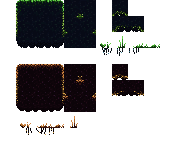
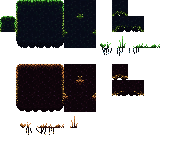
added a lot

Changed region(s): [[0.0, 0.1111, 0.1136, 0.2222], [0.0852, 0.0, 0.1989, 0.1111]]

diff --git a/src/main.cpp b/src/main.cpp
@@ -7,6 +7,7 @@
 #include <math.h>
 #include <functional>
 
+#include "SFML/Graphics/Color.hpp"
 #include "SFML/Graphics/Shader.hpp"
 #include "SFML/System/Vector2.hpp"
 #include "SFML/Window/Keyboard.hpp"
@@ -29,6 +30,7 @@ sf::Vector2u mapSize = {500,500};
 
 int lvlCtr = 1;
 bool outOfLevels = false;
+bool doneWL = false;
 
 sf::Mouse mouse;
 sf::Keyboard keyboard;
@@ -40,6 +42,7 @@ std::vector<Button> buttons;
 std::vector<Creature> creatures;
 TileMap map;
 Player player(25.f,sf::Vector2f(75,50));
+End end;
 
 float sound = 0;
 
@@ -85,6 +88,11 @@ int main()
 	sf::Text test("", font, 30);
 
 	sf::View cam({ 200,200 }, { 1000,1000 });
+
+	//end.shape.setPosition(sf::Vector2f(400, 800));
+	end.shape.setTexture(door);
+	end.shape.setOrigin(end.shape.getLocalBounds().width/2,end.shape.getLocalBounds().height/2);
+	end.shape.setScale(sf::Vector2f(5,5));
 
 	loadLevel();
 
@@ -163,9 +171,9 @@ int main()
 			}
 		}
 
-		if (keyboard.isKeyPressed(sf::Keyboard::Key::Space) && player.onfloor && jumpCooldown <= 0)
+		if ((keyboard.isKeyPressed(sf::Keyboard::Key::Space) || keyboard.isKeyPressed(sf::Keyboard::Key::W))&& player.onfloor && jumpCooldown <= 0)
 		{
-			jumpCooldown = .25;
+			jumpCooldown = 1;
 			player.velocity.y -= 9.98*1.4;
 		}
 
@@ -187,6 +195,7 @@ int main()
 
 		map.draw(window, dirt);
 
+
 		for (auto& polygon : polygons)
 		{
 			polygon.draw(window);
@@ -204,6 +213,9 @@ int main()
 		for (auto& wall : walls) {
 			wall.closestPoint(player, dt);
 		}
+		
+		end.update(dt);
+		end.draw(window);
 
 		for (auto& point : points)
 		{
@@ -222,21 +234,16 @@ int main()
 			touchedGround = true;
 		}
 
-		/*
-		if (lemmingsRemaining <= 1 && lemmingsNum <= 1 && !outOfLevels)
+		
+		if (doneWL && !outOfLevels)
 		{
-			if (end.num >= .75 * lemmingsNumOg)
-			{
-				std::cout << "You win\n";
-				lvlCtr++;
-			}
-			else
-			{
-				std::cout << "You Loose\n";
-			}
+			std::cout << "You win\n";
+			lvlCtr++;
+			doneWL = false;
+		
 			loadLevel();
 		}
-		*/
+		
 
 		sound = dist({ 0,0 }, player.velocity) * 30 + 2*PPM;
 
@@ -247,10 +254,12 @@ int main()
 		window.draw(soundCircle);
 #endif
 
-
-		test.setString("Has Dash: " + std::to_string(touchedGround));
-		test.setPosition(cam.getInverseTransform().transformPoint(0,0));
-		window.draw(test);
+		if(doneWL)
+		{
+			test.setString("Ur done bro 💀");
+			test.setPosition(cam.getInverseTransform().transformPoint(0,0));
+			window.draw(test);
+		}
 
 		sf::Vector2f playPos = player.shape.getPosition() + sf::Vector2f(1, 1) * r;
 		sf::Vector2f camPos = { 0, 0 };
@@ -354,6 +363,13 @@ int loadLevel()
 
 	int* mapT = new int[300*300];
 
+	for (unsigned int i = 0; i < 300; ++i) {
+		for (unsigned int j = 0; j < 300; ++j) {
+			map.map[i+j*300] = 0;
+		}
+	}
+
+	map.recalculate();
 
 	for (unsigned int i = 0; i < 300; ++i) {
 		for (unsigned int j = 0; j < 300; ++j) {
@@ -377,9 +393,11 @@ int loadLevel()
 
 	map = TileMap(mapT);
 	
-	map.recalculate();
 
 	delete[] mapT;
+
+
+	map.recalculate();
 
 	std::ifstream file;
 	file.open("resources/" + std::to_string(lvlCtr) + "/lvl.txt");
@@ -401,6 +419,10 @@ int loadLevel()
 			{
 				walls.emplace_back(sf::Vector2f(std::stoi(tokens[1]), std::stoi(tokens[2])), sf::Vector2f(std::stoi(tokens[3]), std::stoi(tokens[4])));
 			}
+			else if (command == "s")
+			{
+				player.shape.setPosition(sf::Vector2f(std::stoi(tokens[1]),std::stoi(tokens[2])));
+			}
 			else if (command == "p")
 			{
 				std::vector<sf::Vector2f> verticies;
@@ -412,10 +434,6 @@ int loadLevel()
 				polygons.emplace_back(verticies);
 				verticies.clear();
 			}
-			else if (command == "e")
-			{
-				creatures.emplace_back(25, sf::Vector2f(std::stoi(tokens[1]), std::stoi(tokens[1])));
-			}
 			else if (command == "c")
 			{
 				if (tokens[1] == "t")
@@ -426,6 +444,10 @@ int loadLevel()
 				{
 					confineCam = false;
 				}
+			}
+			else if (command == "e")
+			{
+				end.shape.setPosition(sf::Vector2f(0,.5)*PPM + sf::Vector2f(std::stoi(tokens[1])*PPM, std::stoi(tokens[2])*PPM));
 			}
 			else if (command == " " || command == "")
 			{ }
@@ -754,12 +776,9 @@ void TileMap::recalculate() {
 			triangles[4].position = sf::Vector2f((i + 1) * tileSize.x, j * tileSize.y);
 			triangles[5].position = sf::Vector2f((i + 1) * tileSize.x, (j + 1) * tileSize.y);
 
-			triangles[0].texCoords = sf::Vector2f( map[i + j * width] * TSS,map[i + j * width] * TSS );
-			triangles[1].texCoords = sf::Vector2f( (map[i + j * width] + 1) * TSS,map[i + j * width] * TSS );
-			triangles[2].texCoords = sf::Vector2f((map[i + j * width]) * TSS,(map[i + j * width] + 1) * TSS );
-			triangles[3].texCoords = sf::Vector2f((map[i + j * width]) * TSS,(map[i + j * width] + 1) * TSS );
-			triangles[4].texCoords = sf::Vector2f((map[i + j * width] + 1) * TSS,(map[i + j * width]) * TSS );
-			triangles[5].texCoords = sf::Vector2f((map[i + j * width] + 1) * TSS,(map[i + j * width] + 1) * TSS );
+			sf::Vector2f texPos = {2,1};
+
+			
 
 			// Store adjacent cell states
 			bool above = (j > 0) ? map[i + (j - 1) * width] : true;
@@ -772,15 +791,18 @@ void TileMap::recalculate() {
 				walls.emplace_back(triangles[0].position, triangles[1].position);
 				wallsI.push_back(walls.size() - 1);
 				walls.back().floor = true;
+				texPos = {2,0};
 
 				// Check corners for top wall
 				if (!left) { // Top-left corner
 					points.emplace_back(triangles[0].position);
 					pointsI.push_back(points.size() - 1);
+					texPos = {1,0};
 				}
 				if (!right) { // Top-right corner
 					points.emplace_back(triangles[1].position);
 					pointsI.push_back(points.size() - 1);
+					texPos = {3,0};
 				}
 			}
 
@@ -788,46 +810,68 @@ void TileMap::recalculate() {
 				walls.emplace_back(triangles[1].position, triangles[5].position);
 				wallsI.push_back(walls.size() - 1);
 
+				texPos = {3,1};
+
 				// Check corners for right wall
 				if (!above) { // Top-right corner
 					points.emplace_back(triangles[1].position);
 					pointsI.push_back(points.size() - 1);
+					texPos = {3,0};
 				}
 				if (!below) { // Bottom-right corner
 					points.emplace_back(triangles[5].position);
 					pointsI.push_back(points.size() - 1);
+					texPos = {3,2};
 				}
 			}
 
 			if (!below) { // Check below
 				walls.emplace_back(triangles[5].position, triangles[3].position);
 				wallsI.push_back(walls.size() - 1);
+				texPos = {2,2};
 
 				// Check corners for bottom wall
 				if (!right) { // Bottom-right corner
 					points.emplace_back(triangles[5].position);
 					pointsI.push_back(points.size() - 1);
+					texPos = {3,2};
 				}
 				if (!left) { // Bottom-left corner
 					points.emplace_back(triangles[3].position);
 					pointsI.push_back(points.size() - 1);
+					texPos = {1,2};
 				}
 			}
 
 			if (!left) { // Check left
 				walls.emplace_back(triangles[3].position, triangles[0].position);
 				wallsI.push_back(walls.size() - 1);
+				texPos = {1,1};
 
 				// Check corners for left wall
 				if (!below) { // Bottom-left corner
 					points.emplace_back(triangles[3].position);
 					pointsI.push_back(points.size() - 1);
+					texPos = {1,2};
 				}
 				if (!above) { // Top-left corner
 					points.emplace_back(triangles[0].position);
 					pointsI.push_back(points.size() - 1);
+					texPos = {1,0};
 				}
 			}
+
+			if(!above && !left && !right)
+			{
+				texPos = {0,1};
+			}
+
+			triangles[0].texCoords = (texPos-sf::Vector2f(1,1))*(float)TSS + sf::Vector2f( map[i + j * width] * TSS,map[i + j * width] * TSS );
+			triangles[1].texCoords = (texPos-sf::Vector2f(1,1))*(float)TSS + sf::Vector2f( (map[i + j * width] + 1) * TSS,map[i + j * width] * TSS );
+			triangles[2].texCoords = (texPos-sf::Vector2f(1,1))*(float)TSS + sf::Vector2f((map[i + j * width]) * TSS,(map[i + j * width] + 1) * TSS );
+			triangles[3].texCoords = (texPos-sf::Vector2f(1,1))*(float)TSS + sf::Vector2f((map[i + j * width]) * TSS,(map[i + j * width] + 1) * TSS );
+			triangles[4].texCoords = (texPos-sf::Vector2f(1,1))*(float)TSS + sf::Vector2f((map[i + j * width] + 1) * TSS,(map[i + j * width]) * TSS );
+			triangles[5].texCoords = (texPos-sf::Vector2f(1,1))*(float)TSS + sf::Vector2f((map[i + j * width] + 1) * TSS,(map[i + j * width] + 1) * TSS );
 		}
 	}
 }
@@ -868,4 +912,30 @@ void Button::update(sf::RenderWindow& window)
 		shape.setColor(color);
 	}
 
+}
+
+End::End(sf::Vector2f position, sf::Texture texture)
+{
+	shape = sf::Sprite(texture);
+	shape.setPosition(position);
+}
+
+void End::draw(sf::RenderWindow& window)
+{
+	collideCircle.setOrigin(collideCircle.getLocalBounds().width/2,collideCircle.getLocalBounds().height/2);
+	collideCircle.setPosition(shape.getPosition());
+	collideCircle.setOutlineColor(sf::Color::Red);
+	collideCircle.setRadius(2*PPM);
+	collideCircle.setOutlineThickness(1);
+	collideCircle.setFillColor(sf::Color::Transparent);
+	window.draw(shape);
+	// window.draw(collideCircle);
+}
+
+void End::update(float dt)
+{
+	if (distsq(player.shape.getPosition(), shape.getPosition() + sf::Vector2f(4, 8)) <= pow(2*PPM,2))
+	{
+		doneWL = true;	
+	}
 }

diff --git a/include/header.hpp b/include/header.hpp
@@ -1,3 +1,4 @@
+#include "SFML/Graphics/CircleShape.hpp"
 #include <SFML/Graphics.hpp>
 #include <vector>
 #include <string>
@@ -103,4 +104,16 @@ public:
 	void draw(sf::RenderWindow& window);
 	void update(sf::RenderWindow& window);
 	std::function<void()> callback;
+};
+
+class End
+{
+public:
+	sf::Sprite shape;
+	sf::CircleShape collideCircle;
+	int num = 0;
+	End(sf::Vector2f positon, sf::Texture texture);
+	End() {};
+	void draw(sf::RenderWindow& window);
+	void update(float dt);
 };
